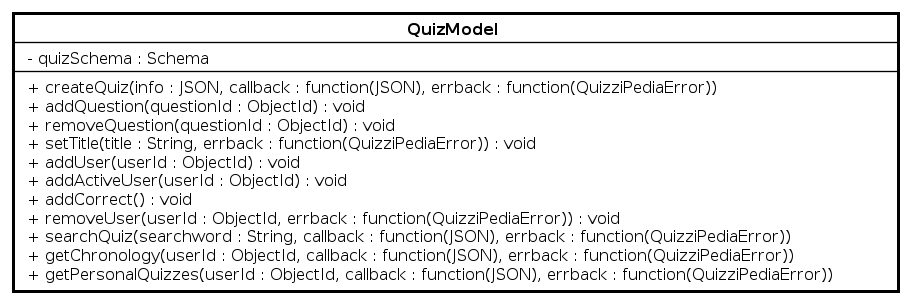
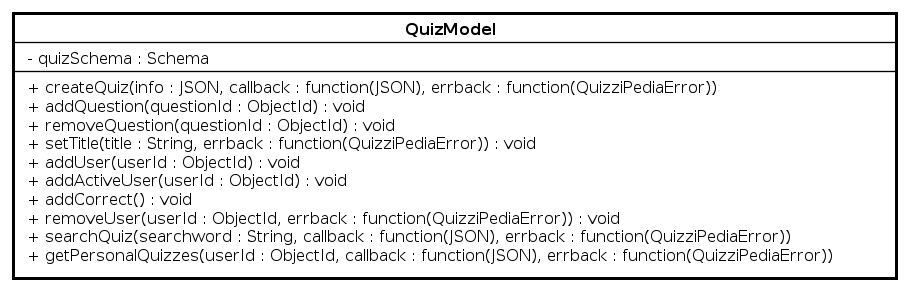
rimosso metodo di troppo nel quiz model e controller

Changed region(s): [[0.0, 0.0308, 0.9857, 0.9863]]

diff --git a/RP/DefinizioneDiProdotto/sezioni/Back-End/Controllers/QuizController.tex b/RP/DefinizioneDiProdotto/sezioni/Back-End/Controllers/QuizController.tex
@@ -93,18 +93,6 @@
 			Rappresenta la \textit{callback\ped{G}} che il metodo deve chiamare al termine dell'elaborazione per passare il controllo ai successivi \textit{middleware\ped{G}}. La presenza del parametro facoltativo \texttt{QuizziPediaError} attiva la catena di gestione dell'errore in sostituzione della normale catena di gestione delle richieste.
 		\end{itemize}
 		
-		\item \texttt{+ getChronology((req: Request, res: Response, next: function(QuizziPediaError))}\\
-			Mostra la cronologia dei questionari svolti da un utente.\\
-			\textbf{Parametri}:
-			\begin{itemize}
-				\item \texttt{req: Request}\\
-			Rappresenta la richiesta inviata al \textit{server\ped{G}}. Contiene il nome del questionario da ricercare;
-				\item \texttt{res: Response}\\
-			Rappresenta la risposta che il \textit{server\ped{G}} fornirà al termine dell'esecuzione del metodo;
-				\item \texttt{next: function(QuizziPediaError)}\\
-			Rappresenta la \textit{callback\ped{G}} che il metodo deve chiamare al termine dell'elaborazione per passare il controllo ai successivi \textit{middleware\ped{G}}. La presenza del parametro facoltativo \texttt{QuizziPediaError} attiva la catena di gestione dell'errore in sostituzione della normale catena di gestione delle richieste.
-			\end{itemize}
-		
 		\item \texttt{+ getPersonalQuizzes((req: Request, res: Response, next: function(QuizziPediaError))}\\
 			Mostra i questionari creati da un utente.\\
 			\textbf{Parametri}:

diff --git a/RP/DefinizioneDiProdotto/sezioni/Back-End/Models/QuizModel.tex b/RP/DefinizioneDiProdotto/sezioni/Back-End/Models/QuizModel.tex
@@ -116,18 +116,6 @@
 				Rappresenta la \textit{callback\ped{G}} che verrà eseguita al termine dell'elaborazione in caso di errore.
 			\end{itemize}
 			
-			\item \texttt{+ getChronology(userID: ObjectId, callback: function(JSON), errback: function(QuizziPediaError)): void}\\
-			Ritorna la cronologia dei questionari svolti da un utente.\\
-			\textbf{Parametri}:
-			\begin{itemize}
-				\item \texttt{userID: ObjectId}\\
-				Rappresenta l'identificativo dell'utente per cui si deve mostrare la cronologia dei questionari svolti;
-				\item \texttt{callback: function(JSON)}\\
-				Rappresenta la \textit{callback\ped{G}} che verrà eseguita al termine dell'elaborazione;
-				\item \texttt{errback: function(QuizziPediaError)}\\
-				Rappresenta la \textit{callback\ped{G}} che verrà eseguita al termine dell'elaborazione in caso di errore.
-			\end{itemize}
-			
 			\item \texttt{+ getPersonalQuizzes(userID: ObjectId, callback: function(JSON), errback: function(QuizziPediaError)): void}\\
 			Ritorna i questionari creati da un utente pro.\\
 			\textbf{Parametri}:
